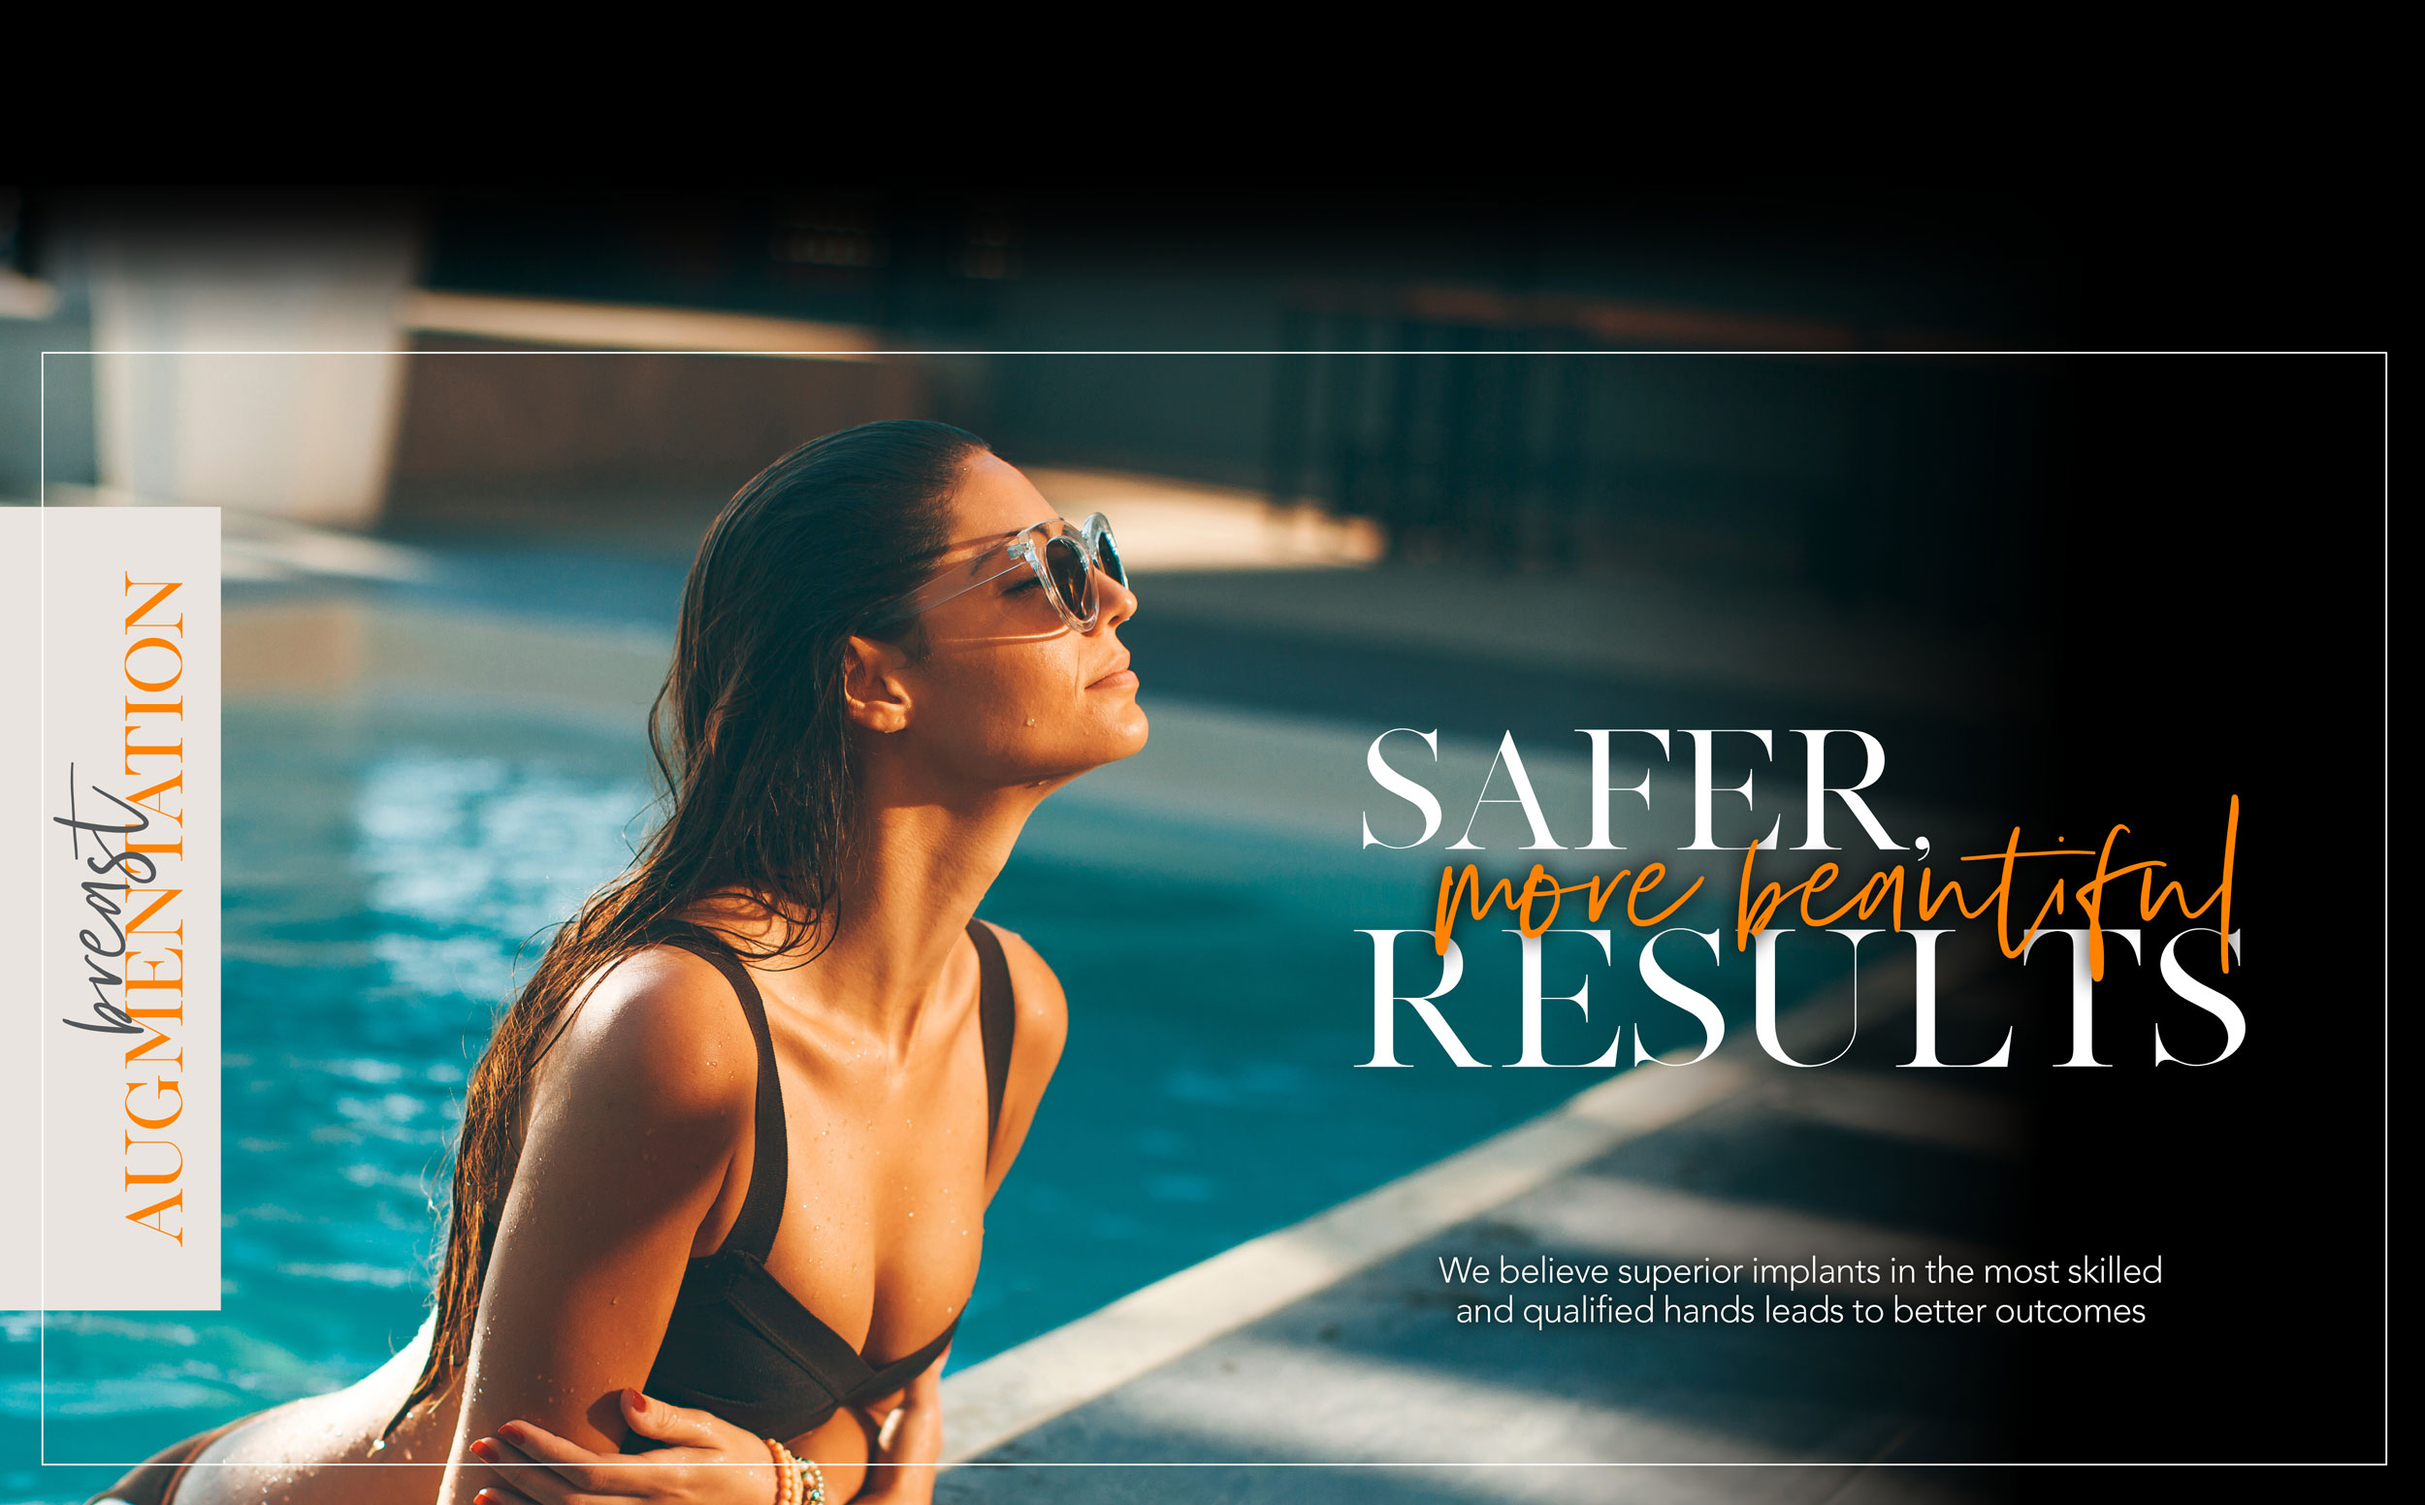
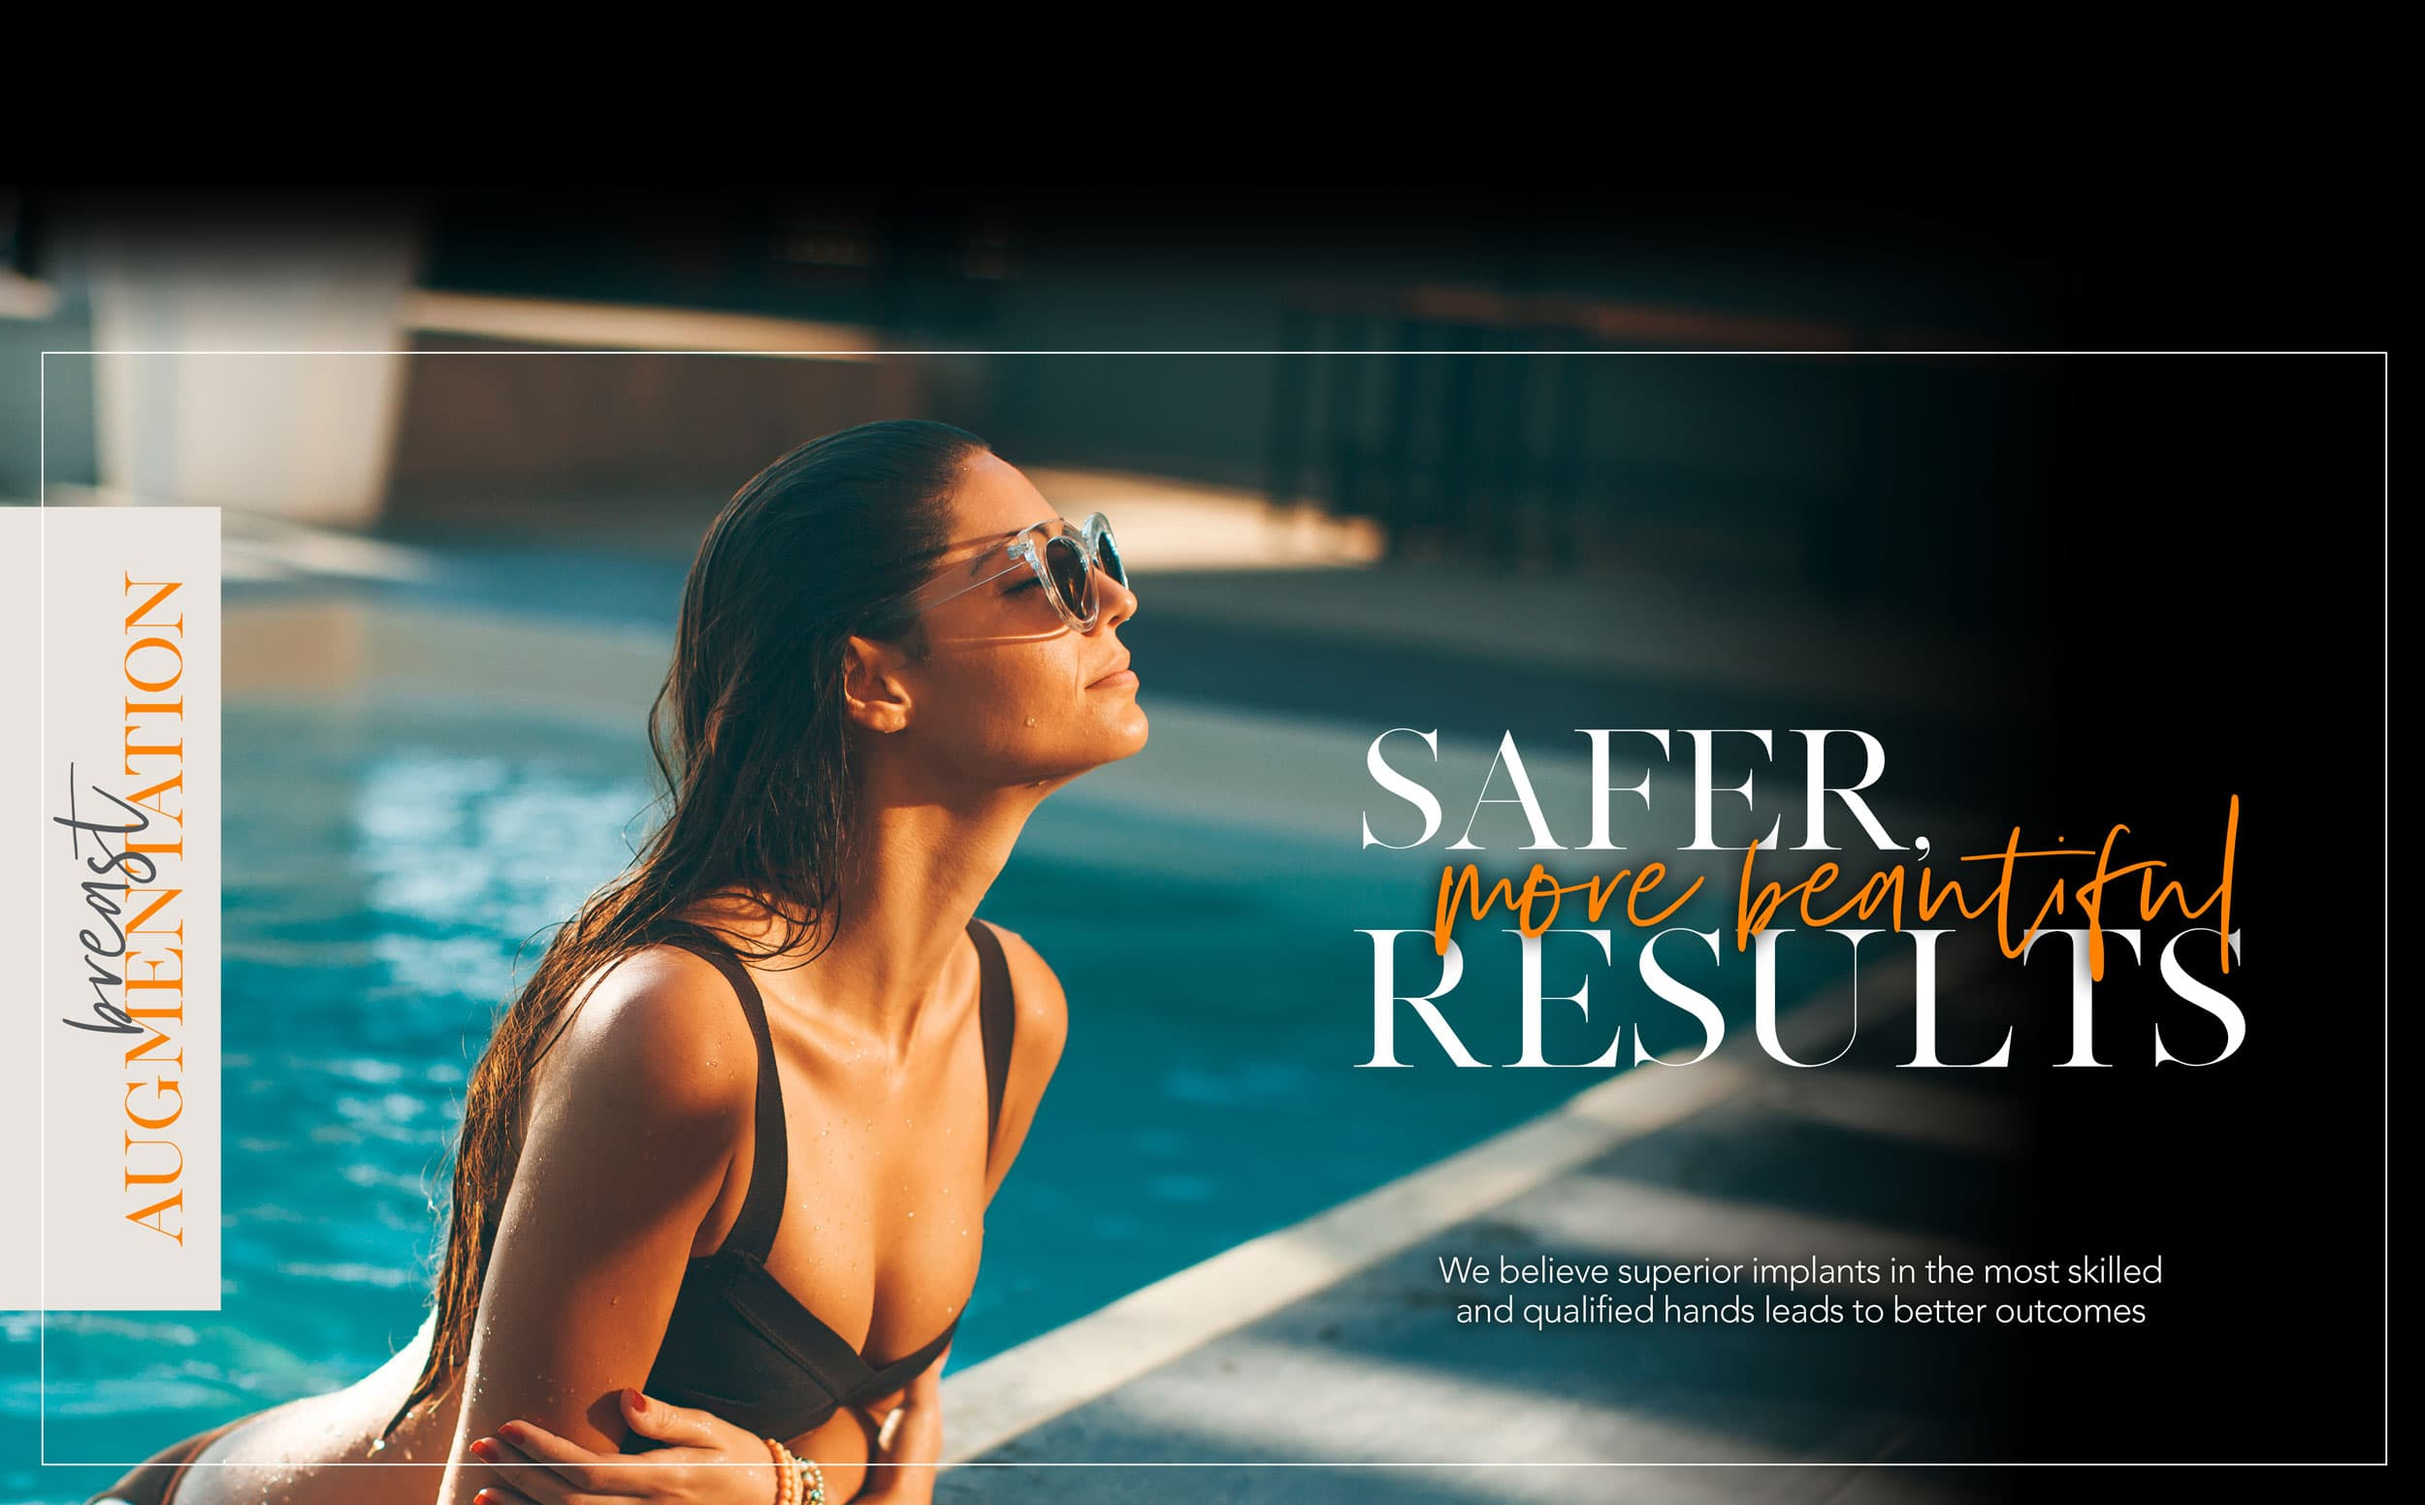
augmentation header

diff --git a/web/app/themes/sientra-theme/resources/assets/styles/layouts/_pages.scss b/web/app/themes/sientra-theme/resources/assets/styles/layouts/_pages.scss
@@ -81,7 +81,19 @@
  }
 .breast-augmentation {
   .hero {
-//     flex-direction: column;
+    background-image: url(../images/aug-header-mobile.jpg);
+    background-position: center top;
+    background-repeat: no-repeat;
+    background-size: contain;
+    height: 170vw;
+    @media (min-width: 768px) { 
+      background-image: url(../images/aug_home_hero-1200.jpg);
+      height: 64vw;
+    }
+    @media (min-width: 1999px) { 
+      background-image: url(../images/aug_home_hero-2500.jpg);
+    }
+
   }
   span.opus {
       color: $orange;

diff --git a/web/app/themes/sientra-theme/resources/assets/styles/layouts/_header.scss b/web/app/themes/sientra-theme/resources/assets/styles/layouts/_header.scss
@@ -21,11 +21,14 @@
     }
   }
   .breast-augmentation & {
-    position: absolute;
-    top: 0;
-    left: 0;
-    right: 0;
+    background: #000;
     color: #fff;
+    @media (min-width: 768px) { 
+      position: absolute;
+      top: 0;
+      left: 0;
+      right: 0;    
+    }
     .brand {
       &.brand-light {
         display: none;

diff --git a/web/app/themes/sientra-theme/resources/views/partials/content-page-augmentation-home.blade.php b/web/app/themes/sientra-theme/resources/views/partials/content-page-augmentation-home.blade.php
@@ -1,5 +1,6 @@
 <section class="hero row flex-column">
 <!-- 	<img src="@asset('images/aug_home_hero.jpg')" class="img-fluid" alt="aug_home_hero" width="2500" height="1552" /> -->
+<!--
 	<img class="img-fluid"
 	   srcset="@asset('images/aug_home_hero-1200.jpg') 1200w,
              @asset('images/aug_home_hero-2500.jpg') 2500w"
@@ -7,6 +8,8 @@
             2500px"
      src="@asset('images/aug_home_hero-2500.jpg')"
      alt="Safer more beautiful results" width="2500" height="1552" >
+-->
+
 </section>
 
 <section class="row why-choose text-center my-4  py-5">
